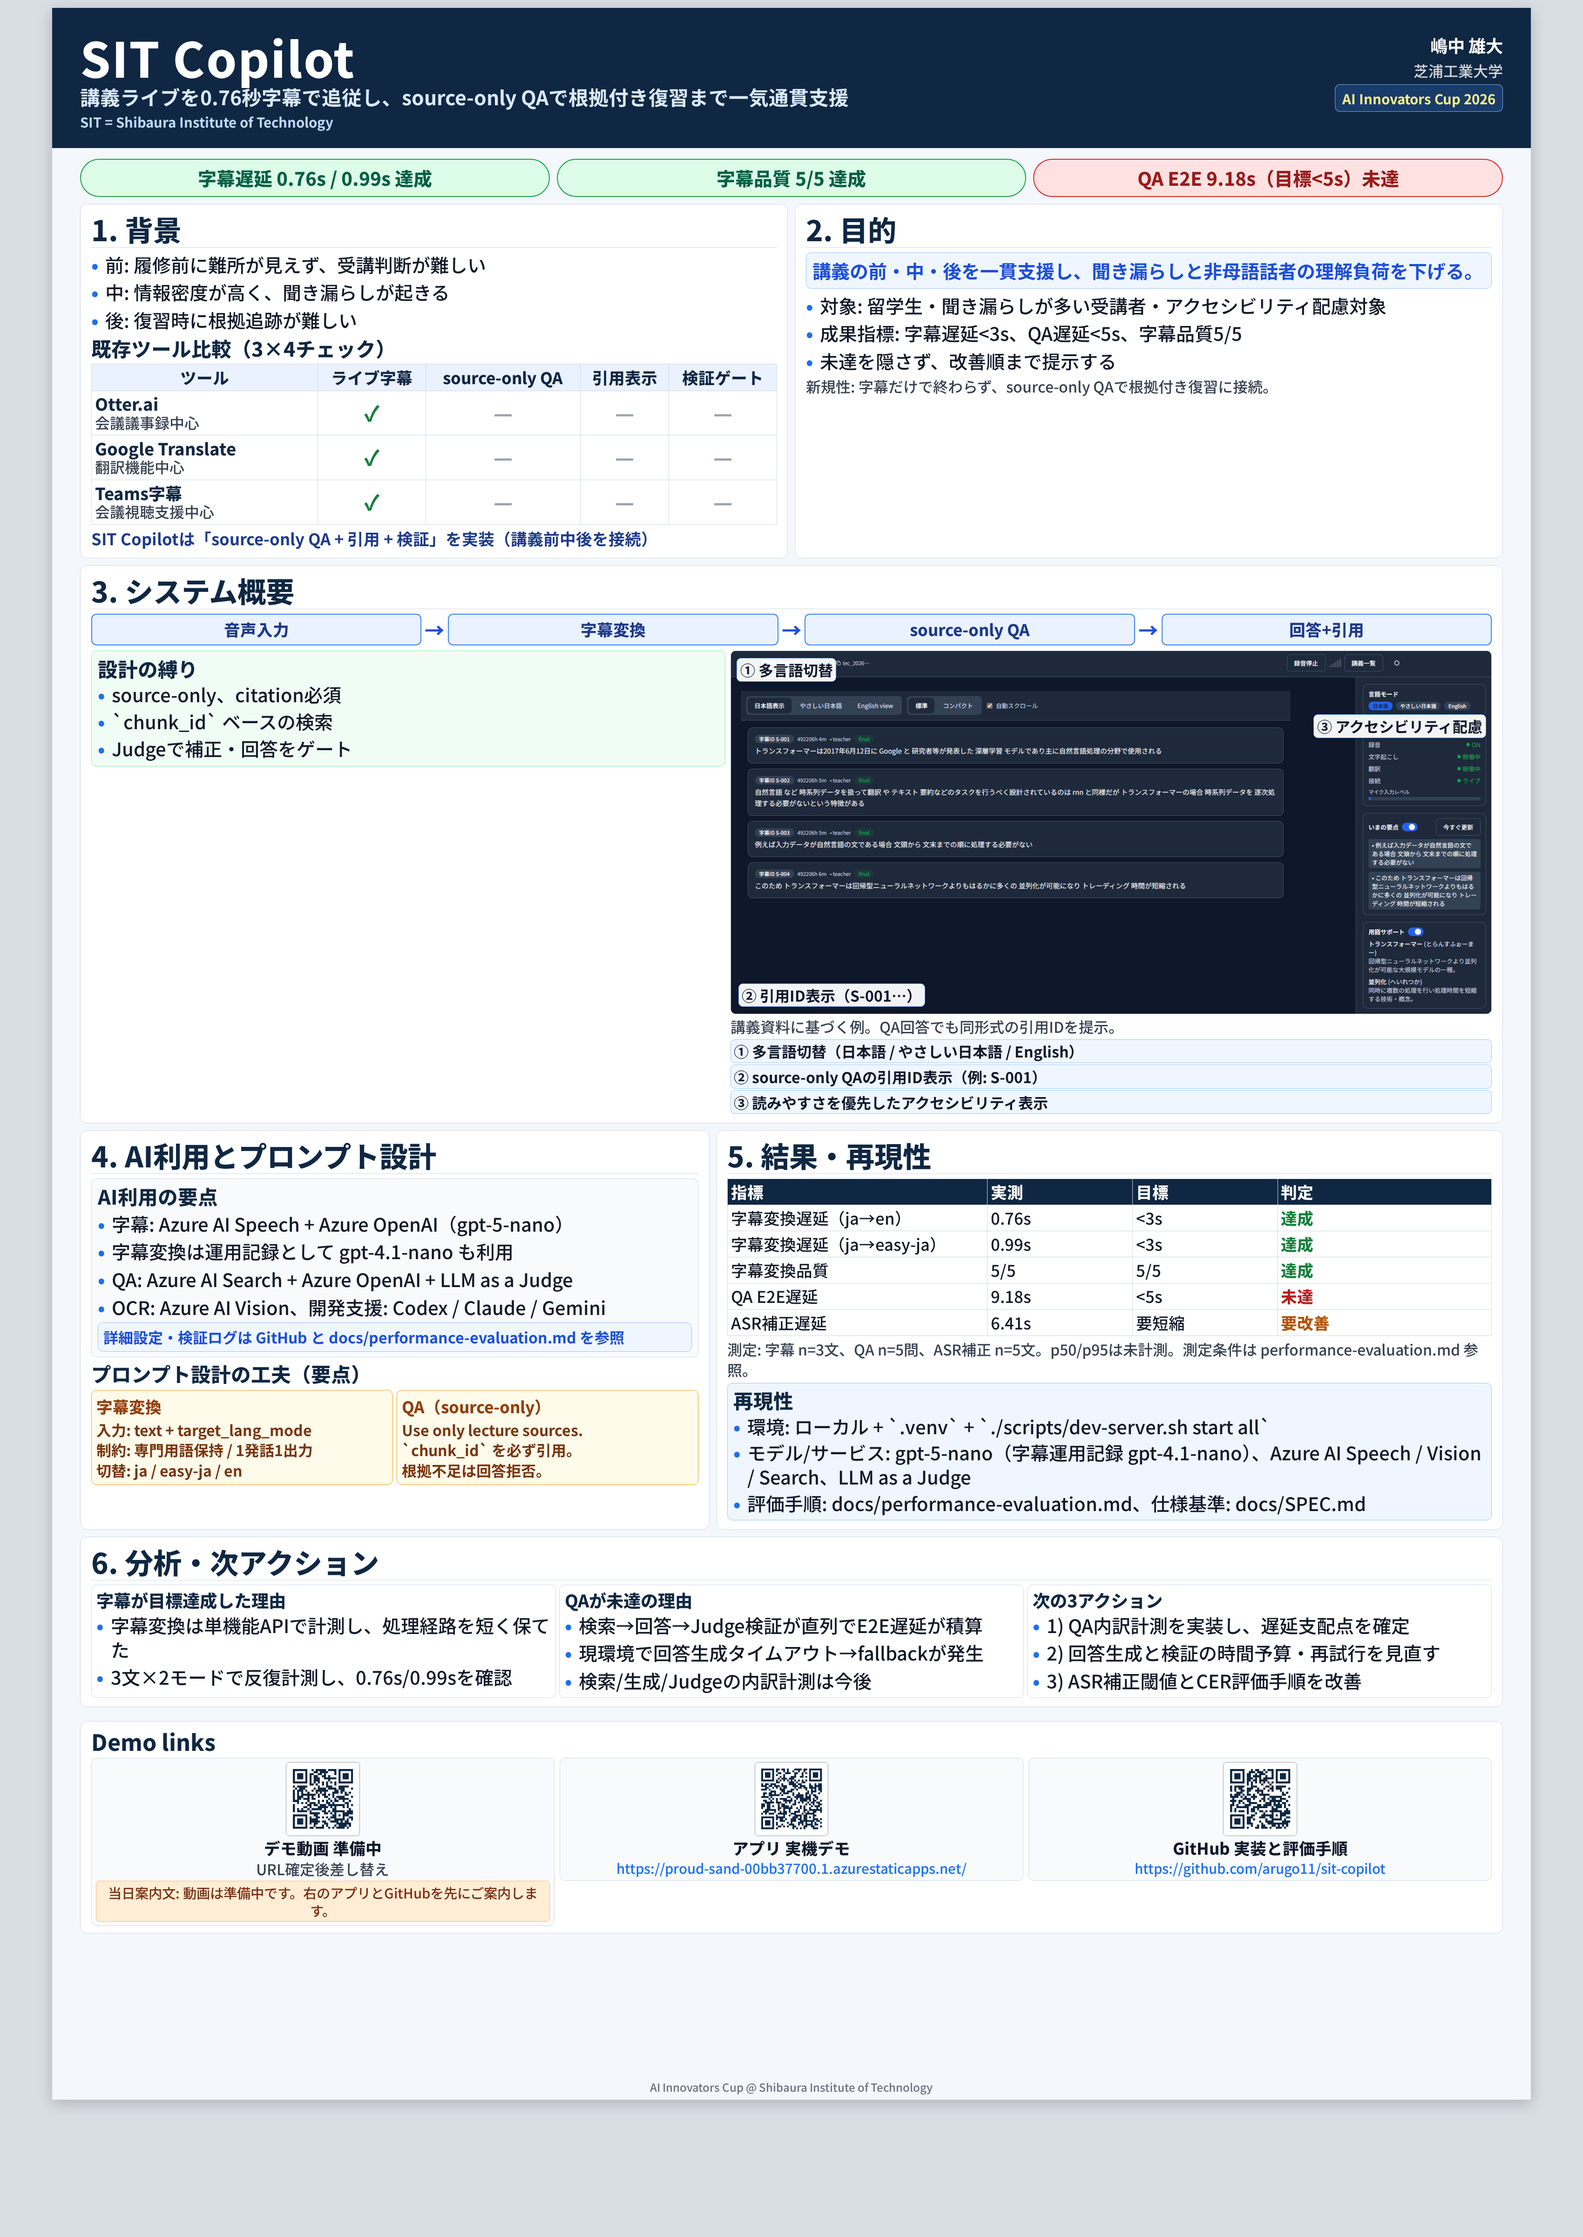
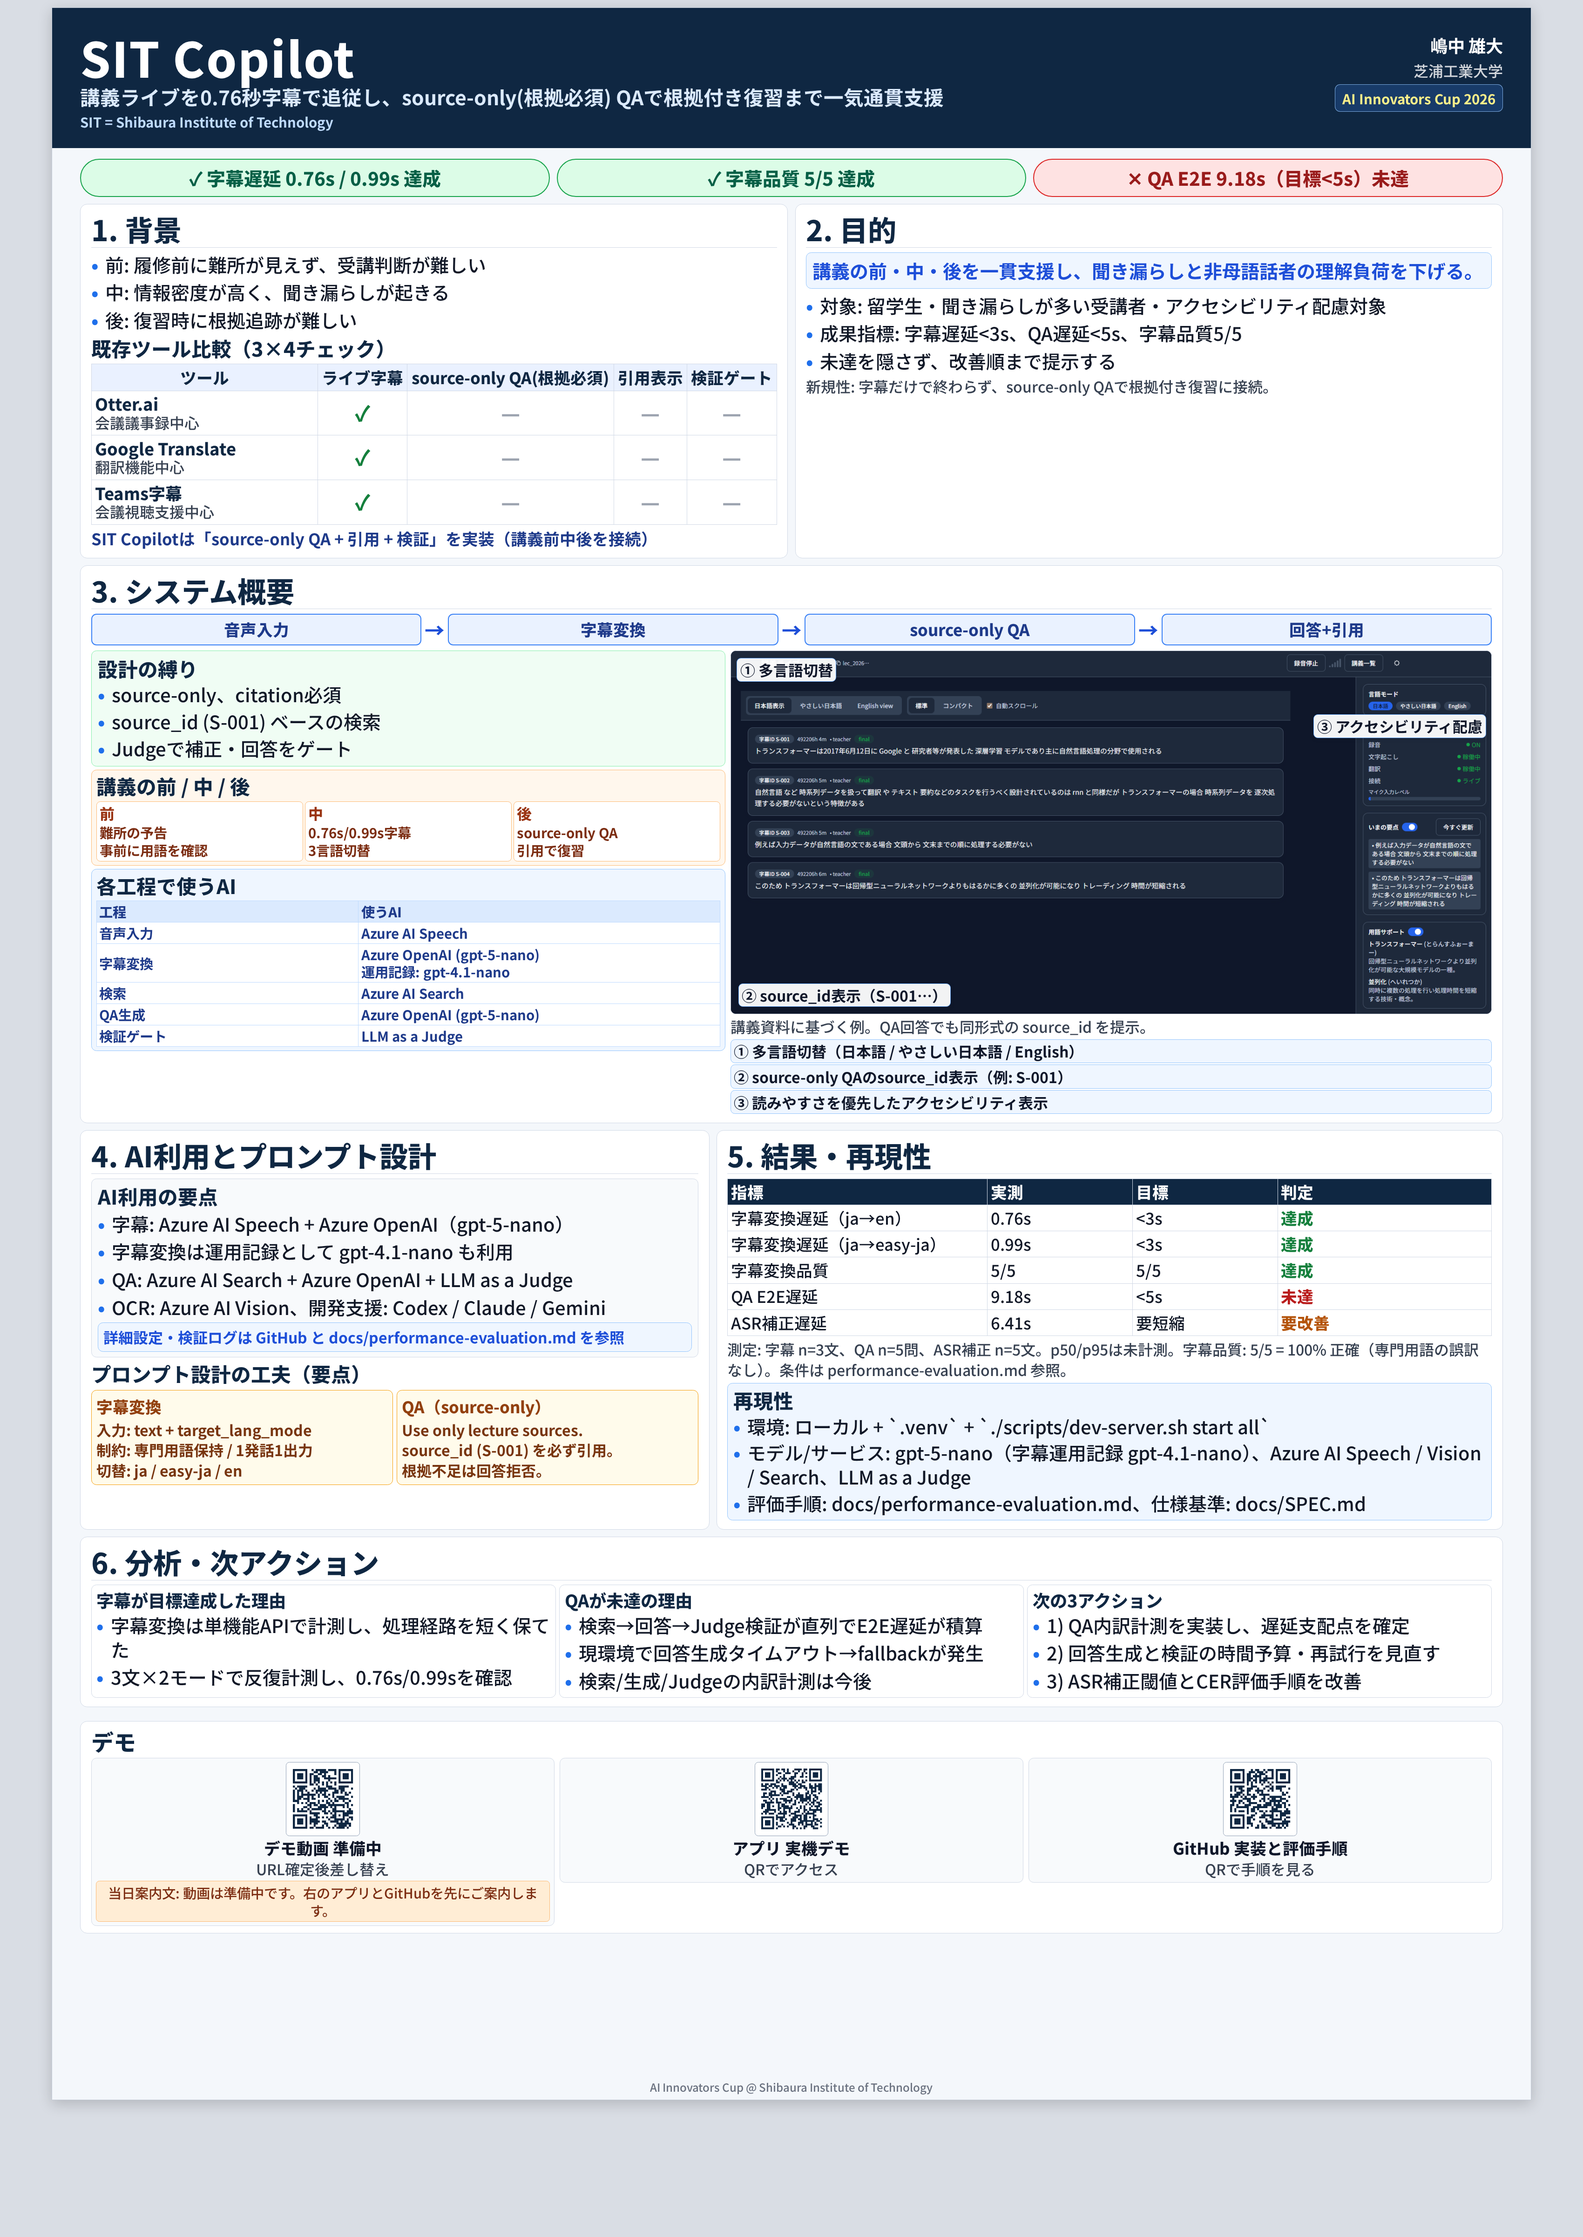
poster: fill system overview gaps and remove printed URLs

diff --git a/poster-gen/poster-preview.html b/poster-gen/poster-preview.html
@@ -319,6 +319,11 @@
     align-items: start;
   }
 
+  .system-left {
+    display: grid;
+    gap: 1.8mm;
+  }
+
   .constraint-box {
     background: #f0fdf4;
     border: 1px solid #86efac;
@@ -332,6 +337,73 @@
 
   .constraint-box li {
     margin-bottom: 1.6mm;
+  }
+
+  .timeline-box {
+    background: #fff7ed;
+    border: 1px solid #fdba74;
+    border-radius: 3mm;
+    padding: 2.2mm 2.6mm;
+  }
+
+  .timeline-grid {
+    display: grid;
+    grid-template-columns: 1fr 1fr 1fr;
+    gap: 1.2mm;
+    margin-top: 1.2mm;
+  }
+
+  .timeline-col {
+    border: 1px solid #fdba74;
+    border-radius: 2.2mm;
+    background: #fff;
+    padding: 1.4mm 1.6mm;
+  }
+
+  .timeline-col .col-title {
+    font-size: 24pt;
+    line-height: 1.2;
+    font-weight: 800;
+    color: #9a3412;
+    margin-bottom: 0.6mm;
+  }
+
+  .timeline-col .col-text {
+    font-size: 22pt;
+    line-height: 1.3;
+    color: #7c2d12;
+    font-weight: 700;
+  }
+
+  .stage-box {
+    background: #eff6ff;
+    border: 1px solid #93c5fd;
+    border-radius: 3mm;
+    padding: 2.2mm 2.6mm;
+  }
+
+  .stage-table {
+    width: 100%;
+    border-collapse: collapse;
+    margin-top: 1.2mm;
+  }
+
+  .stage-table th,
+  .stage-table td {
+    border: 1px solid #bfdbfe;
+    padding: 1.1mm 1.4mm;
+    font-size: 22pt;
+    line-height: 1.25;
+    text-align: left;
+    vertical-align: middle;
+    color: #1e3a8a;
+    font-weight: 700;
+    background: #fff;
+  }
+
+  .stage-table th {
+    background: #dbeafe;
+    font-weight: 800;
   }
 
   .screenshot-wrap {
@@ -641,7 +713,7 @@
     <header class="header">
       <div class="title">
         <h1>SIT Copilot</h1>
-        <div class="core-claim">講義ライブを0.76秒字幕で追従し、source-only QAで根拠付き復習まで一気通貫支援</div>
+        <div class="core-claim">講義ライブを0.76秒字幕で追従し、source-only(根拠必須) QAで根拠付き復習まで一気通貫支援</div>
         <div class="sit-note">SIT = Shibaura Institute of Technology</div>
       </div>
       <div class="meta">
@@ -652,9 +724,9 @@
     </header>
 
     <div class="pill-row">
-      <div class="pill ok">字幕遅延 0.76s / 0.99s 達成</div>
-      <div class="pill ok">字幕品質 5/5 達成</div>
-      <div class="pill ng">QA E2E 9.18s（目標&lt;5s）未達</div>
+      <div class="pill ok">✓ 字幕遅延 0.76s / 0.99s 達成</div>
+      <div class="pill ok">✓ 字幕品質 5/5 達成</div>
+      <div class="pill ng">✕ QA E2E 9.18s（目標&lt;5s）未達</div>
     </div>
 
     <main class="content">
@@ -672,7 +744,7 @@
             <tr>
               <th>ツール</th>
               <th>ライブ字幕</th>
-              <th>source-only QA</th>
+              <th>source-only QA(根拠必須)</th>
               <th>引用表示</th>
               <th>検証ゲート</th>
             </tr>
@@ -735,26 +807,76 @@
         </div>
 
         <div class="system-grid">
-          <div class="constraint-box">
-            <div class="subheading">設計の縛り</div>
-            <ul class="body-list">
-              <li>source-only、citation必須</li>
-              <li>`chunk_id` ベースの検索</li>
-              <li>Judgeで補正・回答をゲート</li>
-            </ul>
+          <div class="system-left">
+            <div class="constraint-box">
+              <div class="subheading">設計の縛り</div>
+              <ul class="body-list">
+                <li>source-only、citation必須</li>
+                <li>source_id (S-001) ベースの検索</li>
+                <li>Judgeで補正・回答をゲート</li>
+              </ul>
+            </div>
+
+            <div class="timeline-box">
+              <div class="subheading">講義の前 / 中 / 後</div>
+              <div class="timeline-grid">
+                <div class="timeline-col">
+                  <div class="col-title">前</div>
+                  <div class="col-text">難所の予告<br>事前に用語を確認</div>
+                </div>
+                <div class="timeline-col">
+                  <div class="col-title">中</div>
+                  <div class="col-text">0.76s/0.99s字幕<br>3言語切替</div>
+                </div>
+                <div class="timeline-col">
+                  <div class="col-title">後</div>
+                  <div class="col-text">source-only QA<br>引用で復習</div>
+                </div>
+              </div>
+            </div>
+
+            <div class="stage-box">
+              <div class="subheading">各工程で使うAI</div>
+              <table class="stage-table">
+                <tr>
+                  <th style="width:42%;">工程</th>
+                  <th>使うAI</th>
+                </tr>
+                <tr>
+                  <td>音声入力</td>
+                  <td>Azure AI Speech</td>
+                </tr>
+                <tr>
+                  <td>字幕変換</td>
+                  <td>Azure OpenAI (gpt-5-nano)<br>運用記録: gpt-4.1-nano</td>
+                </tr>
+                <tr>
+                  <td>検索</td>
+                  <td>Azure AI Search</td>
+                </tr>
+                <tr>
+                  <td>QA生成</td>
+                  <td>Azure OpenAI (gpt-5-nano)</td>
+                </tr>
+                <tr>
+                  <td>検証ゲート</td>
+                  <td>LLM as a Judge</td>
+                </tr>
+              </table>
+            </div>
           </div>
 
           <div>
             <div class="screenshot-wrap">
               <img src="assets/images/live-screen.png" alt="講義ライブ画面" onerror="this.style.display='none'; this.parentElement.innerHTML='<div style=&quot;color:#ef4444;font-size:24pt;padding:12mm;text-align:center;&quot;>画像未配置<br>assets/images/live-screen.png</div>';"></img>
               <div class="callout c1">① 多言語切替</div>
-              <div class="callout c2">② 引用ID表示（S-001…）</div>
+              <div class="callout c2">② source_id表示（S-001…）</div>
               <div class="callout c3">③ アクセシビリティ配慮</div>
             </div>
-            <div class="cap">講義資料に基づく例。QA回答でも同形式の引用IDを提示。</div>
+            <div class="cap">講義資料に基づく例。QA回答でも同形式の source_id を提示。</div>
             <div class="callout-legend">
               <div class="callout-chip">① 多言語切替（日本語 / やさしい日本語 / English）</div>
-              <div class="callout-chip">② source-only QAの引用ID表示（例: S-001）</div>
+              <div class="callout-chip">② source-only QAのsource_id表示（例: S-001）</div>
               <div class="callout-chip">③ 読みやすさを優先したアクセシビリティ表示</div>
             </div>
           </div>
@@ -784,7 +906,7 @@
             </div>
             <div class="prompt-snippet">
               <div class="snippet-title">QA（source-only）</div>
-              <div class="snippet-body">Use only lecture sources.<br>`chunk_id` を必ず引用。<br>根拠不足は回答拒否。</div>
+              <div class="snippet-body">Use only lecture sources.<br>source_id (S-001) を必ず引用。<br>根拠不足は回答拒否。</div>
             </div>
           </div>
         </section>
@@ -831,7 +953,7 @@
             </tr>
           </table>
 
-          <div class="measure-line">測定: 字幕 n=3文、QA n=5問、ASR補正 n=5文。p50/p95は未計測。測定条件は performance-evaluation.md 参照。</div>
+          <div class="measure-line">測定: 字幕 n=3文、QA n=5問、ASR補正 n=5文。p50/p95は未計測。字幕品質: 5/5 = 100% 正確（専門用語の誤訳なし）。条件は performance-evaluation.md 参照。</div>
 
           <div class="repro-box">
             <div class="subheading">再現性</div>
@@ -875,7 +997,7 @@
     </main>
 
     <section class="card demo">
-      <div class="demo-title">Demo links</div>
+      <div class="demo-title">デモ</div>
       <div class="demo-grid">
         <div class="qr-card">
           <div class="qr-img"><img src="assets/images/qr-demo-video.png" alt="デモ動画QR" onerror="this.style.display='none'; this.parentElement.innerHTML='<div style=&quot;color:#ef4444;font-size:20pt;line-height:1.25;text-align:center;&quot;>QR未配置</div>';"></div>
@@ -887,13 +1009,13 @@
         <div class="qr-card">
           <div class="qr-img"><img src="assets/images/qr-app-url.png" alt="アプリQR" onerror="this.style.display='none'; this.parentElement.innerHTML='<div style=&quot;color:#ef4444;font-size:20pt;line-height:1.25;text-align:center;&quot;>QR未配置</div>';"></div>
           <div class="qr-label">アプリ 実機デモ</div>
-          <div class="qr-url">https://proud-sand-00bb37700.1.azurestaticapps.net/</div>
+          <div class="qr-sub">QRでアクセス</div>
         </div>
 
         <div class="qr-card">
           <div class="qr-img"><img src="assets/images/qr-github.png" alt="GitHub QR" onerror="this.style.display='none'; this.parentElement.innerHTML='<div style=&quot;color:#ef4444;font-size:20pt;line-height:1.25;text-align:center;&quot;>QR未配置</div>';"></div>
           <div class="qr-label">GitHub 実装と評価手順</div>
-          <div class="qr-url">https://github.com/arugo11/sit-copilot</div>
+          <div class="qr-sub">QRで手順を見る</div>
         </div>
       </div>
     </section>

diff --git a/.claude/docs/DESIGN.md b/.claude/docs/DESIGN.md
@@ -281,6 +281,39 @@ Claude Code Orchestra is a multi-agent collaboration framework. Claude Code (200
 
 - 2026-02-25: Applied A0 readability-first poster restructure with top-level performance pills, simplified AI usage presentation, and sequential sectioning.
 
+## Poster Evidence Label and Demo QR Simplification (2026-02-25)
+
+### Decision Summary
+
+- Removed printed URL strings from poster demo cards and kept QR-first access wording only.
+  - app card: `QRでアクセス`
+  - GitHub card: `QRで手順を見る`
+- Filled unused left-side area in system overview with two high-readability blocks:
+  - before/during/after mini timeline,
+  - per-step AI usage mini table.
+- Unified user-facing citation terminology to:
+  - `source_id (S-001)` across constraints, prompt snippets, and screenshot callouts.
+- Added explicit quality definition line for subtitle quality `5/5` using documented wording from performance evaluation.
+- Added `✓` / `✕` symbols in KPI pills so status does not rely on color only.
+- Localized demo heading from English to Japanese (`デモ`) for language consistency.
+
+### Rationale
+
+- URL text under QR cards reduced readability without adding practical value in print context.
+- Section 3 had visible dead space that could be converted into rubric-relevant explanatory content.
+- Mixed citation terms (`chunk_id` vs `S-001`) caused interpretation friction during judging.
+- Color-independent status encoding improves accessibility and distance comprehension.
+
+### Compatibility Rules
+
+- Keep fact values unchanged (`0.76s`, `0.99s`, `5/5`, `9.18s`, `6.41s`).
+- Keep demo video state explicit as pending (`準備中`) until URL finalization.
+- Continue using `source_id (S-001)` as the poster-facing citation label.
+
+### Changelog
+
+- 2026-02-25: Removed printed URLs in demo area, unified citation label to `source_id`, and filled Section 3 whitespace with timeline/AI-step blocks.
+
 ## A0 Technical Poster Layout for SIT Copilot (2026-02-23)
 
 ### Decision Summary

diff --git a/poster-gen/CHANGELOG_poster.md b/poster-gen/CHANGELOG_poster.md
@@ -33,3 +33,25 @@
 - デモQRラベルを明確化。
   - デモ動画は「準備中・URL確定後差し替え」へ更新。
   - 当日案内文を追加。
+
+## 2026-02-25 codex/poster-polish-2
+
+- Demoエリアから印字URLを削除。
+  - アプリ: `QRでアクセス`
+  - GitHub: `QRで手順を見る`
+  - QR画像と見出しは維持。
+- Section 3 の空白を埋めるため、左カラムを拡張。
+  - `講義の前/中/後` ミニタイムラインを追加。
+  - `各工程で使うAI` ミニ表を追加（Speech / OpenAI / AI Search / Judge）。
+- 証拠ID用語を統一。
+  - `chunk_id` 表記を廃止し、`source_id (S-001)` に統一。
+  - 設計の縛り、QAスニペット、スクリーンショット注記を同一語彙に更新。
+- 字幕品質 5/5 の定義を追記。
+  - `5/5 = 100% 正確（専門用語の誤訳なし）`
+  - 条件参照先として `performance-evaluation.md` を明記。
+- KPIピルに記号を追加。
+  - 達成: `✓`
+  - 未達: `✕`
+  - 色だけに依存しない表示へ変更。
+- 見出し言語を統一。
+  - `Demo links` を `デモ` に変更。
